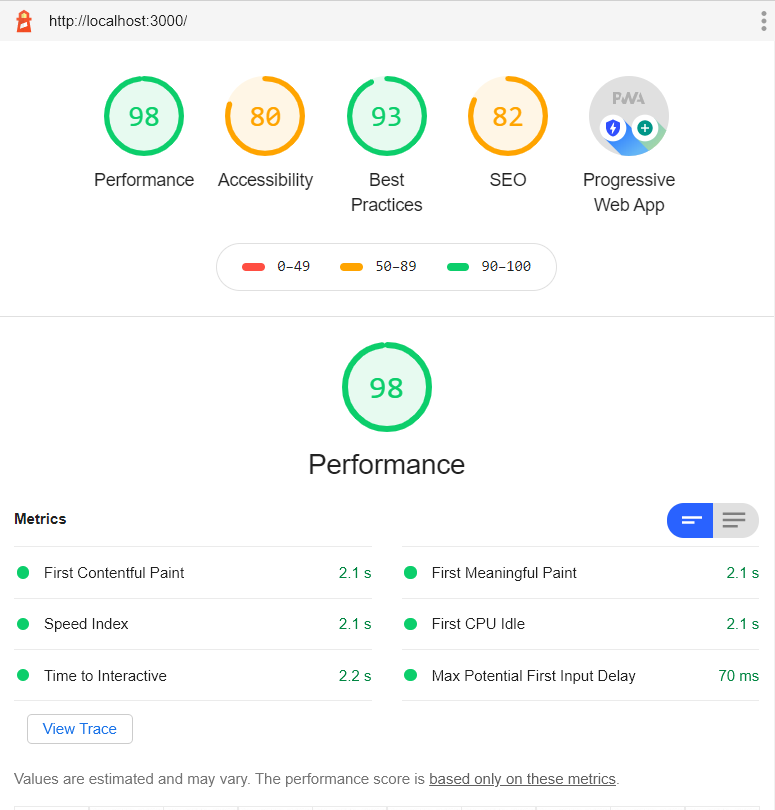
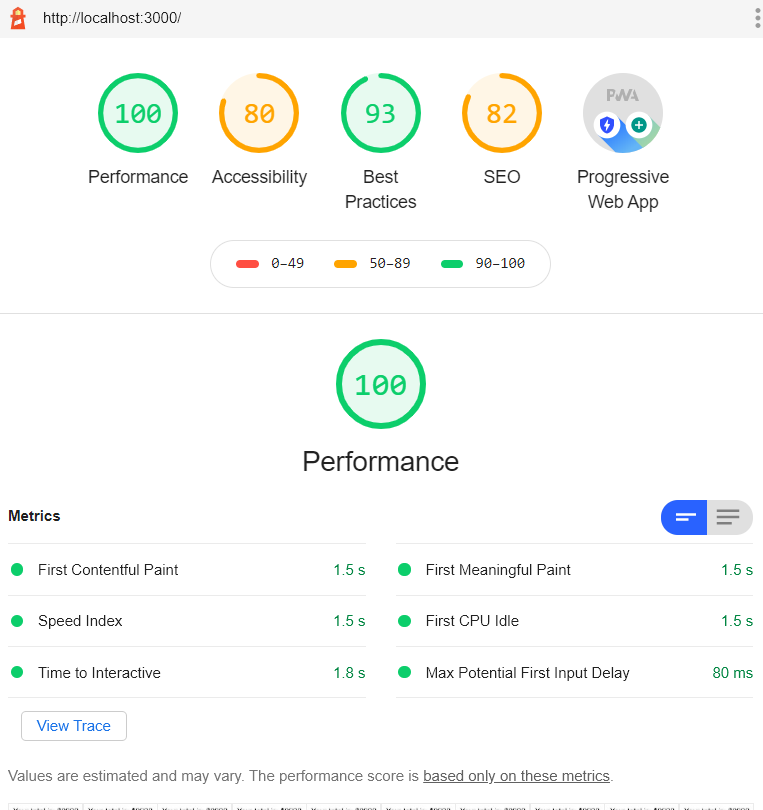
revised styles.css and index.html to optimize pwa performance

diff --git a/public/index.html b/public/index.html
@@ -5,8 +5,8 @@
   <meta name="viewport" content="width=device-width, initial-scale=1.0">
   <meta http-equiv="X-UA-Compatible" content="ie=edge">
   <meta name="theme-color" content="#317EFB">
+  <meta name="Description" content="Budget Tracker Application which allows users to enter in transactions and track the flow of their finances, even in areas with little or no connection to wi-fi. Also includes a graph that displays the change in cash flow.">
   <link rel="shortcut icon" href="icons/icon-192x192.png" type="image/x-icon">
-
   <link rel="stylesheet" href="https://stackpath.bootstrapcdn.com/font-awesome/4.7.0/css/font-awesome.min.css">
   <link rel="stylesheet" href="styles.css">
 
@@ -20,8 +20,11 @@
     </div>
 
     <div class="form">
+      <label for="transaction-name"></label>
       <input type="text" id="t-name" placeholder="Name of transaction" />
+      <label for="amount"></label>
       <input type="number" min="0" id="t-amount" placeholder="Transaction amount" />
+      <br>
       <button id="add-btn"><i class="fa fa-plus buttons"></i> Add Funds</button>
       <button id="sub-btn"><i class="fa fa-minus"></i> Subtract Funds</button>
       <p class="error"></p>

diff --git a/public/styles.css b/public/styles.css
@@ -3,6 +3,21 @@ body {
   font-family: Arial;
 }
 
+@font-face {
+  font-family: Arial;
+  font-style: normal;
+  src: "https://stackpath.bootstrapcdn.com/font-awesome/4.7.0/css/font-awesome.min.css";
+  font-display: swap;
+}
+
+#t-name {
+  margin: 10px;
+}
+
+#sub-btn {
+  margin: 10px;
+}
+
 button, input {
   font-size: 100%;
   font-family: Arial;
